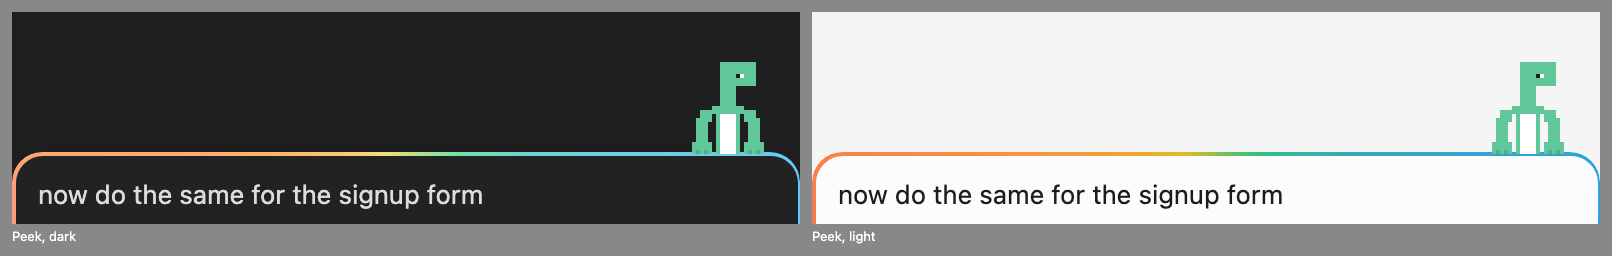
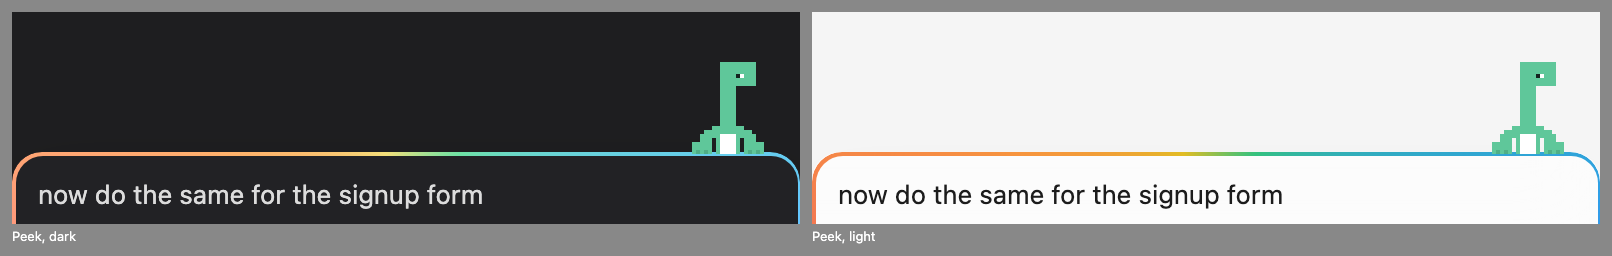
Give Noodle thick forelegs and short front feet on the composer edge
The peek's forelegs ran down both sides of the chest to the edge like
an arch. Now the long neck runs down to shoulders just above the edge,
and two blunt front feet rest on it on two-row wrists, toes over the
edge. A drum lifts one foot a row, a wave raises one foot toes up, and
the climb brings both feet up a row above the edge before they land.

Sitting and rearing keep all four legs: both hind feet on the ground,
the far one darker, and both forelegs three pixels thick, the near one
edged in the darker green where it crosses the chest. The tail is a
thin line, so the haunch no longer merges into a wedge.

Changed region(s): [[0.9305, 0.4062, 0.9926, 0.5625], [0.4342, 0.4062, 0.4963, 0.5625]]

diff --git a/packages/extension/src/chat/sprite.ts b/packages/extension/src/chat/sprite.ts
@@ -96,8 +96,8 @@ const TAILS = parts({
   down: [{ x: 0, y: 14, art: ['ggg', 'ggg'] }],
   up: [{ x: 0, y: 11, art: ['g..', 'gg.', 'ggg'] }],
   /** Upright: laid along the ground behind, a counterweight; then its tip flicked up. */
-  rest: [{ x: 0, y: 18, art: ['.....gggg', '..ggggggg', 'ggggg....'] }],
-  restUp: [{ x: 0, y: 16, art: ['g........', 'g........', '.gg..gggg', '...gggggg'] }],
+  rest: [{ x: 0, y: 18, art: ['.....ggg', '..gggg..', 'ggg.....'] }],
+  restUp: [{ x: 0, y: 17, art: ['g.......', '.g...ggg', '..ggg...'] }],
 });
 export type Tail = keyof typeof TAILS;
 
@@ -108,38 +108,67 @@ const LEGS = parts({
   tucked: [{ x: 4, y: 19, art: ['ggg......ggg', '.ggg......ggg'] }],
   /** Sitting: drawn under a body lowered two rows, the feet forward. */
   folded: [{ x: 4, y: 19, art: ['gggggg...gggggg'] }],
-  /** Upright, sat on its haunches: the thigh's curve in a darker green, the foot forward along the ground. */
-  haunch: [{ x: 6, y: 16, art: ['...dd', '.g...d', 'gg....d', 'ggggggdgwwg', 'gggggggggggggg', '.gggggggggggggg'] }],
+  /** Upright, sat on its haunches: the thigh's curve in a darker green, both hind feet forward along the ground. */
+  haunch: [{ x: 6, y: 16, art: ['...dd', '.g...d', 'gg....d', 'ggggggdgwwg', 'ggggggggggggddd', '.gggggggggggdddd'] }],
   /** Upright, stood on its hind legs, the far one darker. */
   rear: [{ x: 8, y: 19, art: ['.ddd.ggg', '.ddd.ggg', '.ddd.ggggg'] }],
 });
 export type Legs = keyof typeof LEGS;
 
-/** The forelegs of the upright body, from its shoulder; the far one, when it shows, is the darker green. */
+/** A leg three pixels thick, as thick as a hind leg, `rows` tall. */
+const leg = (ink: 'g' | 'd', rows: number): string[] => Array<string>(rows).fill(ink.repeat(3));
+/** The near foreleg in front of the chest, edged in the darker green so it reads apart from the body: out level, `reach` long, or down. */
+const across = (reach: number): string[] => [`.${'d'.repeat(reach - 1)}`, ...Array<string>(3).fill(`d${'g'.repeat(reach)}`), `.${'d'.repeat(reach - 1)}`];
+const down = (rows: number): string[] => Array<string>(rows).fill('dggg');
+/** A foot held up, its toes showing. */
+const SOLE = 'gdg';
+
+/**
+ * The forelegs of the upright body, thick like the hind legs: the near one green, the far one darker, drawn first so
+ * the near one covers it. They hold and work things the way a sitting elephant would, with blunt feet.
+ */
 const ARMS = parts({
   none: [],
-  /** A wave: the near paw up, then out, from a foreleg that crosses the belly. */
-  up: [{ x: 14, y: 8, art: ['....g.g', '....ggg', '.....g.', '.....g.', '....g..', '...g...', 'ggg....'] }],
-  out: [{ x: 14, y: 9, art: ['.....g.g', '.....ggg', '......g.', '.....g..', '...gg...', 'ggg.....'] }],
+  /** A wave: the near foot raised high, then out, the far one up at the chest. */
+  up: [
+    { x: 21, y: 11, art: leg('d', 3) },
+    { x: 17, y: 8, art: ['.gdg', '.ggg', '.ggg', '.ggg', 'gggg', 'ggg.'] },
+  ],
+  out: [
+    { x: 21, y: 11, art: leg('d', 3) },
+    { x: 17, y: 9, art: ['...gdg', '...ggg', '..gggg', '.ggg..', 'ggg...'] },
+  ],
   flex: [
-    { x: 9, y: 8, art: ['d..', 'd..', 'ddd', '..d'] },
-    { x: 17, y: 9, art: ['..g', '..g', 'ggg', 'g..'] },
+    { x: 21, y: 10, art: ['ddd', ...leg('d', 3)] },
+    { x: 17, y: 8, art: ['.gdg', '.ggg', '.ggg', '.ggg', 'gggg', 'ggg.'] },
   ],
-  /**
-   * The near foreleg crosses the white belly so it reads apart from the chest. Holding a notebook or clipboard: the
-   * near paw at its lower left, the far one on its right edge.
-   */
+  /** Holding a notebook or clipboard up: the far foot at its top left, the near foreleg out under it. */
   hold: [
-    { x: 14, y: 13, art: ['...gg', '..ggg', 'ggg..'] },
-    { x: 23, y: 13, art: ['d', 'd'] },
+    { x: 17, y: 10, art: ['dd', 'dd', 'dd'] },
+    { x: 13, y: 12, art: across(5) },
   ],
-  /** Typing: the paw down on the keys, then lifted. */
-  tapA: [{ x: 14, y: 15, art: ['gggg', '...g', '...gg'] }],
-  tapB: [{ x: 14, y: 14, art: ['gggg', '...g', '...gg'] }],
-  /** Writing: the paw on the pencil, where the pad's `pencil` puts it. */
-  pen0: [{ x: 14, y: 14, art: ['ggggg'] }],
-  pen1: [{ x: 14, y: 14, art: ['gggggg'] }],
-  pen2: [{ x: 14, y: 14, art: ['ggggggg'] }],
+  /** Typing: one foot down on the keys while the other lifts, in turn. */
+  tapA: [
+    { x: 16, y: 12, art: leg('d', 5) },
+    { x: 14, y: 13, art: down(5) },
+  ],
+  tapB: [
+    { x: 16, y: 13, art: leg('d', 5) },
+    { x: 14, y: 12, art: down(5) },
+  ],
+  /** Writing: the near foot on the pencil, where the pad's `pencil` puts it; the far one holds the pad. */
+  pen0: [
+    { x: 15, y: 16, art: ['ddd', 'ddd'] },
+    { x: 13, y: 12, art: across(4) },
+  ],
+  pen1: [
+    { x: 15, y: 16, art: ['ddd', 'ddd'] },
+    { x: 13, y: 12, art: across(5) },
+  ],
+  pen2: [
+    { x: 15, y: 16, art: ['ddd', 'ddd'] },
+    { x: 13, y: 12, art: across(6) },
+  ],
 });
 export type Arms = keyof typeof ARMS;
 
@@ -264,14 +293,14 @@ export const POSES = poseTable({
   },
   coding: {
     intro: [
-      sat({ eye: 'down', prop: laptop(3, 0), hold: 2 }),
-      sat({ eye: 'down', prop: laptop(2, 0), hold: 2 }),
-      sat({ eye: 'down', prop: laptop(1, 0), hold: 2 }),
-      sat({ eye: 'down', prop: laptop(0, 0), hold: 2 }),
-      sat({ eye: 'down', prop: laptop(0, 2) }),
-      sat({ eye: 'down', prop: laptop(0, 4) }),
-      sat({ eye: 'down', prop: laptop(0, 6), hold: 3 }),
-      sat({ eye: 'down', prop: laptop(0, 6), glasses: true, hold: 4 }),
+      sat({ eye: 'down', arms: 'tapB', prop: laptop(3, 0), hold: 2 }),
+      sat({ eye: 'down', arms: 'tapB', prop: laptop(2, 0), hold: 2 }),
+      sat({ eye: 'down', arms: 'tapB', prop: laptop(1, 0), hold: 2 }),
+      sat({ eye: 'down', arms: 'tapB', prop: laptop(0, 0), hold: 2 }),
+      sat({ eye: 'down', arms: 'tapB', prop: laptop(0, 2) }),
+      sat({ eye: 'down', arms: 'tapB', prop: laptop(0, 4) }),
+      sat({ eye: 'down', arms: 'tapB', prop: laptop(0, 6), hold: 3 }),
+      sat({ eye: 'down', arms: 'tapB', prop: laptop(0, 6), glasses: true, hold: 4 }),
     ],
     loop: [1, 2, 3, 4, 4, 4].flatMap((lines) => [
       sat({ eye: 'down', glasses: true, arms: 'tapA', prop: laptop(0, 6, lines), hold: 2 }),
@@ -412,44 +441,46 @@ export function svgOf(grid: Grid): string {
 }
 
 /**
- * The peek: Noodle leaning on the composer's top edge, the grid's last row. One body, from the head down the neck
- * to the shoulders and the chest with its white belly, cut off by the edge; the forelegs and paws are drawn per frame.
+ * The peek: Noodle leaning on the composer's top edge, the grid's last row. One body, the head and the long neck
+ * down to the shoulders just above the edge, then the chest with its white belly, cut off by the edge; the wrists
+ * and paws are drawn per frame.
  */
 const PEEK_BODY: Grid = [
   ...BODY.slice(0, 12),
+  ...Array<string>(5).fill('.............gggg.......'),
   '...........gggggggg.....',
-  '..........gggggggggg....',
-  ...Array<string>(10).fill('............gwwwwg......'),
+  '.........gggggggggggg...',
+  '.........ggggwwwwgggg...',
+  ...Array<string>(4).fill('............gwwwwg......'),
 ];
 
-/** The foreleg from the right shoulder, three pixels thick, braced outward, apart from the chest. */
-const FORELEG = ['ggg.', 'ggg.', 'gggg', '.ggg', '.ggg', '.ggg', '.ggg'];
 /** A wide forepaw seen from the front, its toes hooked over the edge, a darker green between them. */
 const PAW = ['ggggg', 'ggggg', 'gdgdg'];
-/** The paw turned up to wave, its toes spread. */
-const PALM = ['g.g.g', 'ggggg', 'ggggg'];
+/** The paw raised to wave, its toes up. */
+const PALM = ['gdgdg', 'ggggg', '.ggg.'];
 
 /**
- * Where a paw is: hooked over the edge, lifted a row off it, let go (the leg hangs past the edge), or waving above
- * the shoulder in one of two places. Drawn for the right side; the left side is its mirror about the chest.
+ * Where a paw is: on a short wrist from the shoulder, hooked over the edge, lifted a row off it, let go (the wrist
+ * hangs past the edge), or raised to wave in one of two places. Drawn for the right side; the left side is its
+ * mirror about the chest.
  */
 const HANDS = parts({
   grip: [
-    { x: 19, y: 13, art: [...FORELEG, '.ggg'] },
+    { x: 19, y: 19, art: ['ggg', 'ggg'] },
     { x: 19, y: 21, art: PAW },
   ],
   lift: [
-    { x: 19, y: 13, art: FORELEG },
+    { x: 19, y: 19, art: ['ggg'] },
     { x: 19, y: 20, art: PAW },
   ],
-  off: [{ x: 19, y: 13, art: [...FORELEG, '.ggg', '.ggg', '.ggg', '.ggg'] }],
+  off: [{ x: 19, y: 19, art: ['ggg', 'ggg', 'ggg', 'ggg', 'ggg'] }],
   waveA: [
-    { x: 19, y: 8, art: PALM },
-    { x: 19, y: 11, art: ['ggg', 'ggg', 'ggg'] },
+    { x: 19, y: 10, art: PALM },
+    { x: 20, y: 13, art: ['ggg', 'ggg', 'ggg', 'ggg', 'ggg'] },
   ],
   waveB: [
-    { x: 18, y: 9, art: PALM },
-    { x: 19, y: 12, art: ['gg.', 'ggg'] },
+    { x: 18, y: 11, art: PALM },
+    { x: 19, y: 14, art: ['ggg.', 'ggg.', '.ggg', '.ggg'] },
   ],
 });
 export type Hand = keyof typeof HANDS;
@@ -486,6 +517,7 @@ export const PEEK_MOVES = {
     once: true,
     loop: [
       ...[24, 20, 16, 12, 8, 5, 3, 1].map((sink) => ({ ...LET_GO, sink })),
+      p({ left: 'lift', right: 'lift' }),
       p({ hold: 3 }),
       p({ eye: 'blink', hold: 2 }),
       p({ hold: 3 }),

diff --git a/packages/extension/test/sprite.test.ts b/packages/extension/test/sprite.test.ts
@@ -106,6 +106,19 @@ describe('the sprite', () => {
     expect(compose(SITTING).join('')).toMatch(/w/);
   });
 
+  it('shows all four legs when upright: both hind feet on the ground and both forelegs raised or working, near green and far darker', () => {
+    const inksOf = (grid: Grid, rows: readonly number[]) => new Set(rows.flatMap((y) => [...grid[y]!]));
+    for (const name of POSE_NAMES)
+      for (const frame of framesOf(POSES[name]).filter((f) => f.body === 'upright')) {
+        const grid = compose({ ...frame, prop: undefined as never });
+        const ground = inksOf(grid, [19, 20, 21]);
+        expect(ground.has('g') && ground.has('d'), `${name}: two hind legs on the ground`).toBe(true);
+        const bare = compose({ ...frame, arms: 'none', prop: undefined as never });
+        const fore = new Set(grid.flatMap((row, y) => [...row].filter((ink, x) => bare[y]![x] !== ink)));
+        expect(fore.has('g') && fore.has('d'), `${name} ${frame.arms}: two forelegs`).toBe(true);
+      }
+  });
+
   it('holds and works each prop with a foreleg that reaches it, not a stub beside it', () => {
     const cells = (grid: Grid) => new Set(grid.flatMap((row, y) => [...row].map((ink, x) => `${x},${y},${ink}`)));
     const changed = (a: Grid, b: Grid) => {
@@ -193,7 +206,7 @@ function bodies(grid: Grid): number {
 }
 
 describe('the peek over the composer', () => {
-  it('is one connected body: head, neck, chest with a white belly, and two forelegs ending in wide paws hooked over the edge', () => {
+  it('is one connected body: head, long neck, shoulders just above the edge, and two wide paws hooked over it on short wrists', () => {
     const grid = composePeek(GRIP);
     expect(grid).toHaveLength(SIZE);
     expect(bodies(grid)).toBe(1);
@@ -201,10 +214,12 @@ describe('the peek over the composer', () => {
     expect(grid[3]!.slice(17, 19)).toBe('wk');
     // The edge row: the chest, and beside it only the paws, their toes split by the darker green.
     expect(grid[SIZE - 1]).toBe('......gdgdg.gwwwwg.gdgdg');
-    // A paw is wider than the leg above it.
+    // A paw is wider than the wrist above it, and no leg runs down the body's sides above the shoulders.
     const widths = (row: string) => [...row.matchAll(/g+/g)].map((m) => m[0].length);
     expect(widths(grid[SIZE - 2]!)).toEqual([5, 1, 1, 5]);
-    expect(widths(grid[SIZE - 6]!)).toEqual([3, 1, 1, 3]);
+    expect(widths(grid[SIZE - 4]!)).toEqual([3, 1, 1, 3]);
+    expect(grid.slice(7, 17).every((row) => row === '.............gggg.......')).toBe(true);
+    expect(grid[18]!).toBe('.........gggggggggggg...');
   });
 
   it('draws the two paws as mirrors of each other about the chest, below the head', () => {
@@ -218,10 +233,14 @@ describe('the peek over the composer', () => {
     expect(below(composePeek({ ...GRIP, right: 'lift' }))).toEqual(leftUp.map(mirror));
   });
 
+  it('waves a blunt foot, not fingers', () => {
+    for (const frame of PEEK_MOVES.wave.loop) expect(crop(composePeek(frame), { x: 18, y: 7, width: 6, height: 10 }).join('/'), JSON.stringify(frame)).not.toMatch(/g\.g/);
+  });
+
   it('touches the edge only with its paws: a lifted paw leaves it, a let-go leg hangs past it', () => {
     const edge = (frame: PeekFrame) => composePeek(frame)[SIZE - 1]!;
     expect(edge({ ...GRIP, right: 'lift' })).toBe('......gdgdg.gwwwwg......');
-    expect(edge({ ...GRIP, left: 'off', right: 'off' })).toBe('.......ggg..gwwwwg..ggg.');
+    expect(edge({ ...GRIP, left: 'off', right: 'off' })).toBe('........ggg.gwwwwg.ggg..');
     expect(edge({ ...GRIP, right: 'waveA' })).toBe('......gdgdg.gwwwwg......');
   });
 
@@ -241,12 +260,14 @@ describe('the peek over the composer', () => {
       }
   });
 
-  it('climbs: the body rises from below the edge, the hands land on it, then it blinks', () => {
+  it('climbs: the body rises from below the edge, the paws come up and land on it last, then it blinks', () => {
     const sinks = PEEK_MOVES.climb.loop.map((f) => f.sink ?? 0);
     expect(sinks[0]).toBeGreaterThanOrEqual(SIZE - 1);
     expect(sinks).toEqual([...sinks].sort((a, b) => b - a));
     const landed = PEEK_MOVES.climb.loop.findIndex((f) => f.left === 'grip' && f.right === 'grip');
-    expect(PEEK_MOVES.climb.loop.slice(0, landed).every((f) => f.left === 'off' && f.right === 'off')).toBe(true);
+    const rising = PEEK_MOVES.climb.loop.slice(0, landed);
+    expect(rising.slice(0, -1).every((f) => f.left === 'off' && f.right === 'off')).toBe(true);
+    expect([rising.at(-1)!.left, rising.at(-1)!.right, rising.at(-1)!.sink ?? 0]).toEqual(['lift', 'lift', 0]);
     expect(PEEK_MOVES.climb.loop.slice(landed).every((f) => (f.sink ?? 0) === 0)).toBe(true);
     expect(PEEK_MOVES.climb.loop.slice(landed).some((f) => f.eye === 'blink')).toBe(true);
   });

diff --git a/docs/ui-gallery.md b/docs/ui-gallery.md
@@ -39,7 +39,7 @@ The design-system page reads the panel's stylesheet as the page loaded it. It sh
 
 ![The design-system page](ui-gallery/design-dark.png)
 
-Noodle, the dinosaur, walks, runs and thinks on four legs. To hold or work something, it sits up on its haunches and uses its front legs: it reads a notebook, types on a laptop, writes on a pad and ticks a clipboard. It stands on its hind legs to flex. Over the composer it peeks with both front paws hooked over the edge. Every pose and peek move, frame by frame, at 4×:
+Noodle, the dinosaur, walks, runs and thinks on four legs. To hold or work something, it sits back on its haunches with both hind feet on the ground and uses its thick front legs, as a circus elephant does: it holds up a notebook or clipboard, types on a laptop and writes on a pad. It rears up on its hind legs to flex. Over the composer it rests its two front feet on the edge and looks over. Every pose and peek move, frame by frame, at 4×:
 
 ![Every Noodle frame](ui-gallery/noodle-after.png)
 
